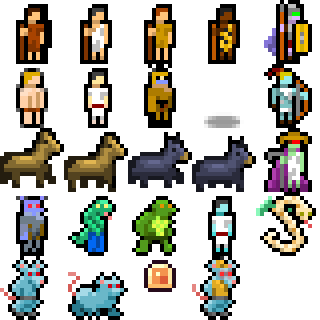
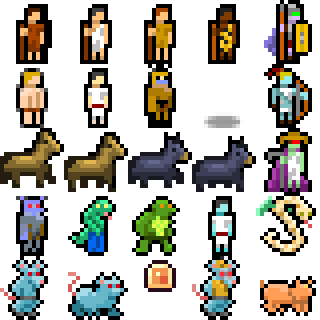
cave tiles

Changed region(s): [[0.8125, 0.8438, 1.0, 1.0]]

diff --git a/src/main/kotlin/render/tileholders/WallTile.kt b/src/main/kotlin/render/tileholders/WallTile.kt
@@ -10,7 +10,9 @@ class WallTile(
     val neighborType: Glyph,
 ): TileHolder(set) {
 
-    enum class Slot { TOP, LEFT, LEFTBOTTOM, BOTTOM, RIGHTBOTTOM, RIGHT, OUTSIDE_LEFTBOTTOM, OUTSIDE_RIGHTBOTTOM, FULL }
+    enum class Slot { TOP, LEFT, LEFTBOTTOM, BOTTOM, RIGHTBOTTOM, RIGHT,
+        OUTSIDE_LEFTBOTTOM, OUTSIDE_RIGHTBOTTOM, LEFTTOP, RIGHTTOP, OUTSIDE_LEFTTOP, OUTSIDE_RIGHTTOP,
+        CAP_TOP, CAP_BOTTOM, CAP_LEFT, CAP_RIGHT, FULL }
 
     private val variants = HashMap<Slot, ArrayList<Triple<Float, Int, Int>>>()
 
@@ -21,11 +23,20 @@ class WallTile(
             variants[slot] = ArrayList<Triple<Float, Int, Int>>().apply { add(Triple(frequency, tx, ty)) }
         }
     }
+
     override fun getTextureIndex(level: Level?, x: Int, y: Int): Int {
         level?.also { level ->
             var bucket = variants[Slot.FULL]
             if (visibleAt(level, x, y)) {
-                if (!visibleTo(level, x, y, EAST)) {
+                if (!neighborTo(level,x,y,WEST) && !neighborTo(level,x,y,EAST) && !neighborTo(level,x,y,SOUTH) && neighborTo(level,x,y,NORTH)) {
+                    bucket = variants[Slot.CAP_BOTTOM]
+                } else if (!neighborTo(level,x,y,WEST) && !neighborTo(level,x,y,EAST) && !neighborTo(level,x,y,NORTH) && neighborTo(level,x,y,SOUTH)) {
+                    bucket = variants[Slot.CAP_TOP]
+                } else if (!neighborTo(level,x,y,NORTH) && !neighborTo(level,x,y,SOUTH) && !neighborTo(level,x,y,WEST) && neighborTo(level,x,y,EAST)) {
+                    bucket = variants[Slot.CAP_LEFT]
+                } else if (!neighborTo(level,x,y,NORTH) && !neighborTo(level,x,y,SOUTH) && !neighborTo(level,x,y,EAST) && neighborTo(level,x,y,WEST)) {
+                    bucket = variants[Slot.CAP_RIGHT]
+                } else if (!visibleTo(level, x, y, EAST)) {
                     if (visibleTo(level, x, y, SOUTH)) {
                         if (openTo(level, x, y, NORTH)) {
                             if (neighborTo(level,x,y,SOUTH)) {
@@ -34,7 +45,13 @@ class WallTile(
                                 bucket = variants[Slot.TOP]
                             }
                         } else if (!neighborTo(level,x,y,SOUTH)) {
-                            bucket = variants[Slot.TOP]
+                            if (neighborTo(level, x, y, NORTH)) {
+                                bucket = variants[Slot.LEFTTOP]
+                            } else {
+                                bucket = variants[Slot.TOP]
+                            }
+                        } else if (neighborTo(level,x,y,WEST)) {
+                            bucket = variants[Slot.OUTSIDE_RIGHTTOP]
                         } else {
                             bucket = variants[Slot.RIGHT]
                         }
@@ -50,7 +67,13 @@ class WallTile(
                                 bucket = variants[Slot.TOP]
                             }
                         } else if (!neighborTo(level,x,y,SOUTH)) {
-                            bucket = variants[Slot.TOP]
+                            if (neighborTo(level, x, y, NORTH)) {
+                                bucket = variants[Slot.RIGHTTOP]
+                            } else {
+                                bucket = variants[Slot.TOP]
+                            }
+                        } else if (neighborTo(level,x,y,EAST)) {
+                            bucket = variants[Slot.OUTSIDE_LEFTTOP]
                         } else {
                             bucket = variants[Slot.LEFT]
                         }
@@ -65,6 +88,10 @@ class WallTile(
                     bucket = variants[Slot.OUTSIDE_RIGHTBOTTOM]
                 } else if (!visibleTo(level, x, y, SOUTHWEST) && neighborTo(level, x, y, WEST) && neighborTo(level, x, y, SOUTH)) {
                     bucket = variants[Slot.OUTSIDE_LEFTBOTTOM]
+                } else if (!visibleTo(level, x, y, NORTHEAST) && neighborTo(level, x, y, NORTH) && neighborTo(level, x, y, EAST)) {
+                    bucket = variants[Slot.LEFTTOP]
+                } else if (!visibleTo(level, x, y, NORTHWEST) && neighborTo(level, x, y, NORTH) && neighborTo(level, x, y, WEST)) {
+                    bucket = variants[Slot.RIGHTTOP]
                 } else if (neighborTo(level,x,y,NORTH) && !neighborTo(level,x,y,SOUTH) && (!visibleTo(level,x,y,NORTHEAST) || !visibleTo(level,x,y,NORTHWEST))) {
                     bucket = variants[Slot.TOP]
                 }

diff --git a/src/main/kotlin/render/tilesets/TerrainTileSet.kt b/src/main/kotlin/render/tilesets/TerrainTileSet.kt
@@ -12,6 +12,11 @@ fun TerrainTileSet() =
         setTile(Glyph.SURF_V, SimpleTile(this, 9, 1))
         setTile(Glyph.SURF_H, SimpleTile(this, 11, 1))
 
+        setTile(Glyph.CAVE_FLOOR, VariantsTile(this).apply {
+            add(0.5f, 5, 4)
+            add(0.5f, 5, 5)
+        })
+
         setTile(Glyph.STONE_FLOOR, VariantsTile(this).apply {
             add(0.3f, 0, 0)
             add(0.3f, 0, 1)
@@ -34,6 +39,10 @@ fun TerrainTileSet() =
             add(WallTile.Slot.TOP, 0.33f, 2, 0)
             add(WallTile.Slot.TOP, 0.33f, 3, 0)
             add(WallTile.Slot.TOP, 0.34f, 4, 0)
+            add(WallTile.Slot.LEFTTOP, 1f, 4, 0)
+            add(WallTile.Slot.RIGHTTOP, 1f, 3, 0)
+            add(WallTile.Slot.OUTSIDE_LEFTTOP, 1f, 5, 1)
+            add(WallTile.Slot.OUTSIDE_RIGHTTOP, 1f, 6, 1)
             add(WallTile.Slot.LEFT, 0.5f, 5, 0)
             add(WallTile.Slot.LEFT, 0.5f, 5, 1)
             add(WallTile.Slot.RIGHT, 0.5f, 6, 0)
@@ -45,8 +54,38 @@ fun TerrainTileSet() =
             add(WallTile.Slot.BOTTOM, 0.34f, 4, 1)
             add(WallTile.Slot.RIGHTBOTTOM, 1f, 7, 1)
             add(WallTile.Slot.OUTSIDE_RIGHTBOTTOM, 1f, 2, 3)
+            add(WallTile.Slot.CAP_BOTTOM, 1f, 2, 0)
+            add(WallTile.Slot.CAP_TOP, 1f, 4, 2)
+            add(WallTile.Slot.CAP_LEFT, 1f, 2, 0)
+            add(WallTile.Slot.CAP_RIGHT, 1f, 3, 0)
             add(WallTile.Slot.FULL, 1f, 4, 2)
         })
+
+        setTile(Glyph.CLIFF_WALL, WallTile(this, Glyph.CLIFF_WALL).apply {
+            add(WallTile.Slot.TOP, 0.33f, 1, 4)
+            add(WallTile.Slot.TOP, 0.33f, 2, 4)
+            add(WallTile.Slot.TOP, 0.34f, 3, 4)
+            add(WallTile.Slot.LEFTTOP, 1f, 1, 6)
+            add(WallTile.Slot.RIGHTTOP, 1f, 2, 6)
+            add(WallTile.Slot.OUTSIDE_LEFTTOP, 1f, 1, 5)
+            add(WallTile.Slot.OUTSIDE_RIGHTTOP, 1f, 2, 5)
+            add(WallTile.Slot.LEFT, 0.5f, 0, 5)
+            add(WallTile.Slot.LEFT, 0.5f, 0, 6)
+            add(WallTile.Slot.RIGHT, 0.5f, 4, 5)
+            add(WallTile.Slot.RIGHT, 0.5f, 4, 6)
+            add(WallTile.Slot.LEFTBOTTOM, 1f, 0, 7)
+            add(WallTile.Slot.OUTSIDE_LEFTBOTTOM, 1f, 3, 6)
+            add(WallTile.Slot.BOTTOM, 0.5f, 1, 7)
+            add(WallTile.Slot.BOTTOM, 0.5f, 2, 7)
+            add(WallTile.Slot.RIGHTBOTTOM, 1f, 4, 7)
+            add(WallTile.Slot.OUTSIDE_RIGHTBOTTOM, 1f, 3, 7)
+            add(WallTile.Slot.CAP_BOTTOM, 1f, 3, 5)
+            add(WallTile.Slot.CAP_TOP, 1f, 5, 6)
+            add(WallTile.Slot.CAP_LEFT, 1f, 5, 7)
+            add(WallTile.Slot.CAP_RIGHT, 1f, 5, 7)
+            add(WallTile.Slot.FULL, 1f, 1, 4)
+        })
+
         setTile(Glyph.WALL_DAMAGE, SimpleTile(this, 4, 3))
 
         setTile(Glyph.WATER, WaterTile(this).apply {

diff --git a/src/main/kotlin/render/Screen.kt b/src/main/kotlin/render/Screen.kt
@@ -652,7 +652,7 @@ object Screen : KtxScreen {
         if (terrainBatch.vertexCount < 1) { log.debug("Davey!  terrainBatch had 0 vertices") }
 
         App.level.forEachThingToRender(renderThing, delta)
-        App.level.forEachActorToRender(renderActor, renderFire, delta)
+        App.level.forEachActorToRender(renderActor, delta)
         App.level.forEachSparkToRender(renderSpark)
 
         uiWorldBatch.apply {

diff --git a/src/main/kotlin/world/level/Level.kt b/src/main/kotlin/world/level/Level.kt
@@ -152,7 +152,6 @@ sealed class Level {
     // DoThis for all actor glyphs relevant to rendering the frame around the POV.
     fun forEachActorToRender(
         doThis: (x: Int, y: Int, actor: Actor, vis: Float) -> Unit,
-        doFire: (x: Int, y: Int, offset: Float, offX: Float, offY: Float, size: Float) -> Unit,
         delta: Float) =
         director.actors.forEach { actor ->
             val x = actor.xy.x

diff --git a/src/main/kotlin/render/tilesets/SpriteSheets.kt b/src/main/kotlin/render/tilesets/SpriteSheets.kt
@@ -17,7 +17,7 @@ object SpriteSheets {
             "tiles_mob.png", 5, 5, Screen.textureFilter
         ),
         TerrainSprites(
-            "tiles_terrain.png", 12, 4, Screen.textureFilter
+            "tiles_terrain.png", 12, 8, Screen.textureFilter
         ),
         ThingSprites(
             "tiles_thing.png", 10, 10, Screen.textureFilter

diff --git a/src/main/kotlin/world/terrains/Walls.kt b/src/main/kotlin/world/terrains/Walls.kt
@@ -70,7 +70,7 @@ sealed class Wall(
     }
 }
 
-object BrickWall : Wall(Type.TERRAIN_BRICKWALL, Glyph.BRICK_WALL, 3f) {
+object BrickWall : Wall(Type.TERRAIN_BRICKWALL, Glyph.CLIFF_WALL, 3f) {
     override fun bumpMsg() = "You bump into a brick wall."
     override fun digResult() = if (Dice.chance(0.3f)) Brick() else null
 }

diff --git a/src/main/kotlin/world/terrains/Floors.kt b/src/main/kotlin/world/terrains/Floors.kt
@@ -117,7 +117,7 @@ sealed class Floor(
 
 
 
-object StoneFloor : Floor(Type.TERRAIN_STONEFLOOR, Glyph.STONE_FLOOR) {
+object StoneFloor : Floor(Type.TERRAIN_STONEFLOOR, Glyph.CAVE_FLOOR) {
     override fun moveSpeed(actor: Actor) = 0.8f
     override fun stepSound(actor: Actor) = Speaker.SFX.STEPHARD
 }

diff --git a/src/main/kotlin/render/tilesets/Glyph.kt b/src/main/kotlin/render/tilesets/Glyph.kt
@@ -7,6 +7,8 @@ enum class Glyph {
     BLANK,
 
     BRICK_WALL,
+    CLIFF_WALL,
+    CAVE_FLOOR,
     STONE_FLOOR,
     DIRT,
     GRASS,
